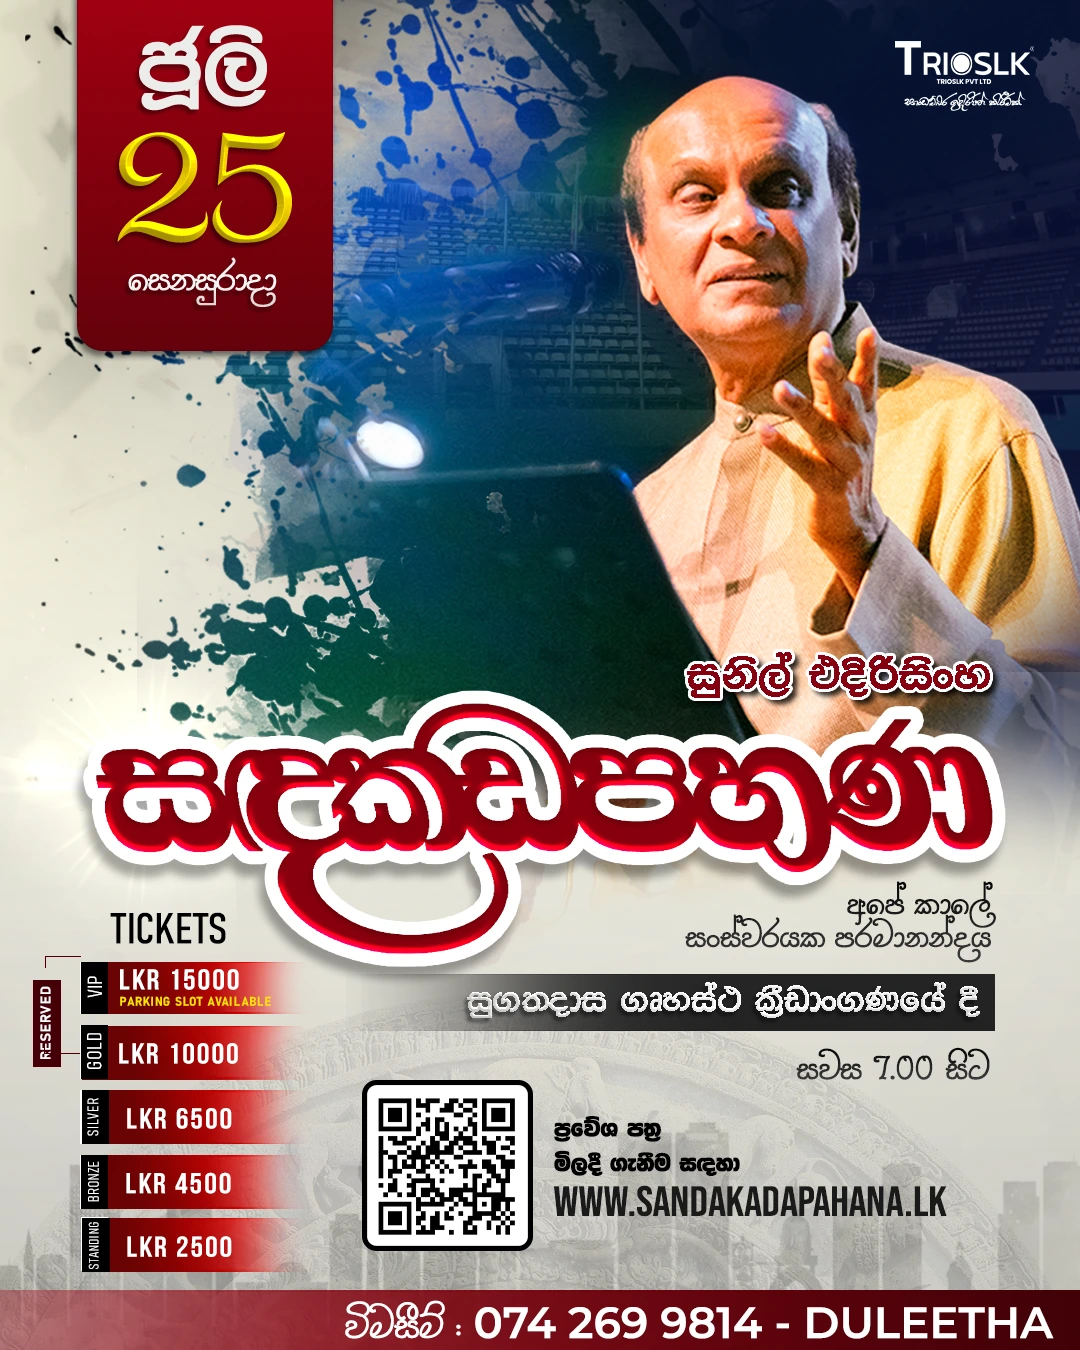
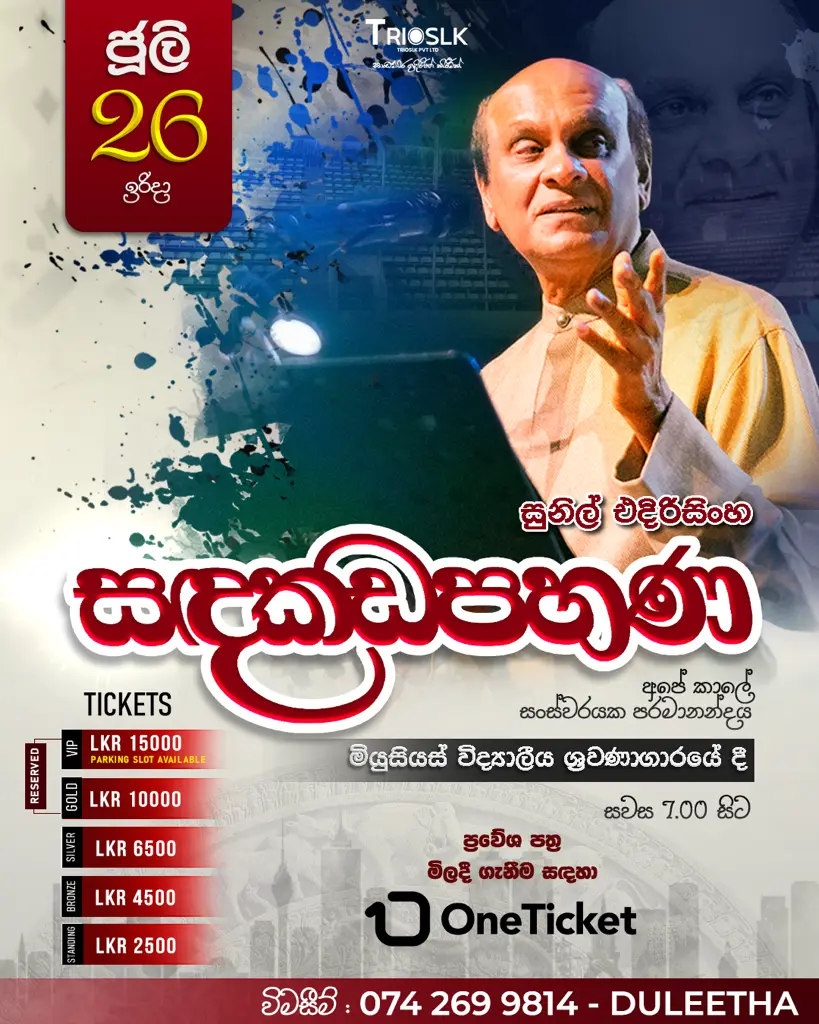
chnage Dates in updated KA

diff --git a/src/components/Booking.jsx b/src/components/Booking.jsx
@@ -83,9 +83,9 @@ const Booking = () => {
               <div className="flex-1 flex flex-col h-full justify-between">
                 <div>
                   <h2 className="text-2xl lg:text-3xl font-bold text-amber-800 mb-2">
-                    Sandakadapahana - Sugathadasa Indoor Stadium
+                    Sandakadapahana - Musaeus College Auditorium
                     <span className="block text-base lg:text-lg text-amber-600 font-semibold mt-1">
-                      සඳකඩපහණ - සුගතදාස ගෘහස්ථ ක්රිඩාංගනය
+                      සඳකඩපහණ - මියුසියස් විද්යාලයීය ශ්රවණාගාරය
                     </span>
                   </h2>
                   <p className="text-gray-600 text-base leading-relaxed mb-4">
@@ -95,9 +95,9 @@ const Booking = () => {
                     harmony.
                   </p>
                   <div className="space-y-2 text-gray-700 mb-4">
-                    <p>📅 2026 ජූලි මස 25 වන දින</p>
-                    <p>📍 කොළඹ සුගතදාස ගෘහස්ථ ක්රිඩාංගනයේ දී</p>
-                    <p>⏰ Gates open at 4:00 PM</p>
+                    <p>📅 2026 ජූලි මස 26 වන දින</p>
+                    <p>📍 කොළඹ මියුසියස් විද්යාලයීය ශ්රවණාගාරයේ දී</p>
+                    <p>⏰ Gates open at 6:00 PM</p>
                   </div>
 
                   {/* Ticket Categories */}
